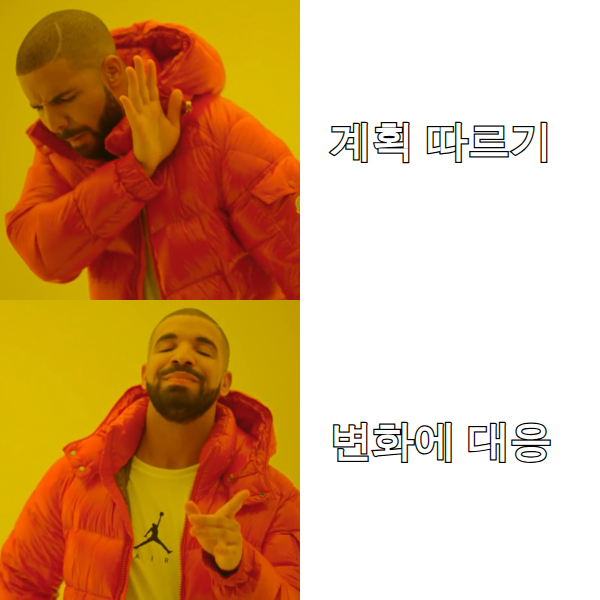
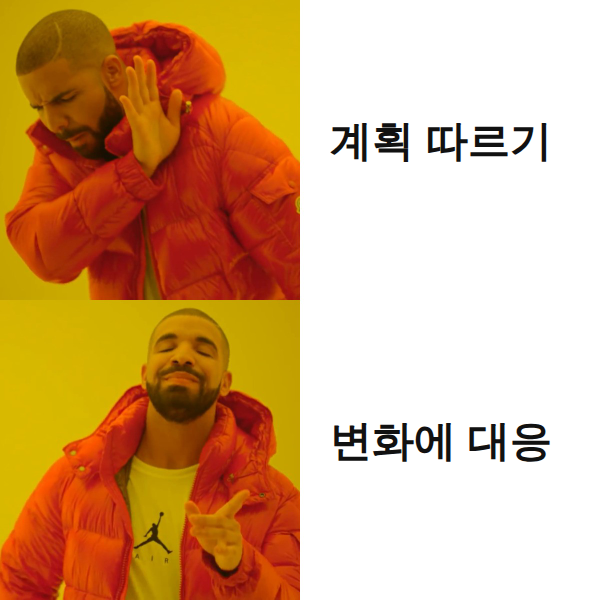
Design fixes: story box placement, table width, scroll hints, mermaid natural size, meme text

Changed region(s): [[0.54, 0.69, 0.93, 0.78], [0.54, 0.18, 0.93, 0.27]]

diff --git a/days/2026-10-04-D002.html b/days/2026-10-04-D002.html
@@ -40,14 +40,14 @@
 <div><b>구조 다이어그램</b>시스템이 <b>무엇으로 이루어졌나</b><br>시간 개념 없음 = 정적</div>
 <div><b>행위 다이어그램</b>시스템이 <b>어떻게 움직이나</b><br>시간에 따른 변화 = 동적</div>
 </div>
-<figure class="mermaid"><img src="../assets/2cdafdaa021c29d3.png" alt="도식" loading="lazy"></figure>
-<figure class="mermaid"><img src="../assets/67a7e6ee6b22c724.png" alt="도식" loading="lazy"></figure>
+<figure class="mermaid"><img src="../assets/2cdafdaa021c29d3.png" alt="도식" loading="lazy" style="width:400px"><figcaption class="hint">↔ 그림이 넓어요. 옆으로 밀어서 보세요</figcaption></figure>
+<figure class="mermaid"><img src="../assets/67a7e6ee6b22c724.png" alt="도식" loading="lazy" style="width:592px"><figcaption class="hint">↔ 그림이 넓어요. 옆으로 밀어서 보세요</figcaption></figure>
 <div class="memo"><b>클객컴배패복</b>은 구조, 나머지는 전부 행위. 구조 6개만 외우면 분류 문제는 끝나요.</div>
 <div class="trap">유스케이스 다이어그램은 “요구사항을 정리하는 그림”이라 정적으로 착각하기 쉽지만 <b>행위</b> 다이어그램이에요.</div>
 <p><small>※ UML 2.5 명세에는 구조 쪽에 <b>프로파일 다이어그램</b>도 있어요(7종). 시험 선지는 보통 위 6종 기준으로 판단하면 돼요.</small></p>
 
 <h2>3. 다이어그램 한눈 표</h2>
-<table>
+<p class="hint">↔ 표가 넓어요. 옆으로 밀어서 보세요</p><table>
 <tr><th>다이어그램</th><th>분류</th><th>무엇을 보여 주나</th><th>시험 키워드</th></tr>
 <tr><td><b>클래스</b></td><td>구조</td><td>클래스의 속성·연산과 클래스 간 관계</td><td>속성·오퍼레이션, 관계 기호</td></tr>
 <tr><td><b>객체</b></td><td>구조</td><td>특정 시점의 인스턴스와 링크</td><td>인스턴스, 스냅샷</td></tr>
@@ -65,11 +65,11 @@
 
 <h3>시퀀스 다이어그램 — 시간 순서</h3>
 <p>세로 점선이 <b>생명선</b>(객체가 살아 있는 시간), 위에서 아래로 시간이 흘러요. 가로 화살표가 메시지, 실선은 호출이고 점선은 응답이에요.</p>
-<figure class="mermaid"><img src="../assets/b2f836462e567259.png" alt="도식" loading="lazy"></figure>
+<figure class="mermaid"><img src="../assets/b2f836462e567259.png" alt="도식" loading="lazy" style="width:650px"><figcaption class="hint">↔ 그림이 넓어요. 옆으로 밀어서 보세요</figcaption></figure>
 <p>시퀀스 구성요소: <span class="tag">액터</span><span class="tag">객체</span><span class="tag">생명선</span><span class="tag">활성 박스(실행)</span><span class="tag">메시지</span><span class="tag">프레임(alt·loop)</span></p>
 
 <h3>상태 다이어그램 — 이벤트에 따른 상태 변화</h3>
-<figure class="mermaid"><img src="../assets/2208784193013201.png" alt="도식" loading="lazy"></figure>
+<figure class="mermaid"><img src="../assets/2208784193013201.png" alt="도식" loading="lazy" style="width:328px"></figure>
 <p>검은 점이 시작, 테두리 있는 점이 종료예요. 화살표 위의 글자가 상태를 바꾸는 <b>이벤트</b>예요.</p>
 
 <div class="vs">
@@ -121,7 +121,7 @@
 <polygon points="280,333 264,324 264,342" fill="#fff" stroke="#333" stroke-width="2"/>
 </svg><figcaption>클래스 관계 6종의 실제 표기. 마름모는 전체 쪽, 삼각형은 부모·인터페이스 쪽에 붙어요</figcaption></figure>
 
-<table>
+<p class="hint">↔ 표가 넓어요. 옆으로 밀어서 보세요</p><table>
 <tr><th>관계 (예)</th><th>선</th><th>끝 모양</th><th>의미</th></tr>
 <tr><td><b>연관</b> Association<br><small>학생 — 강의</small></td><td>실선</td><td>없음(방향 있으면 열린 화살표)</td><td>서로 알고 참조하는 관계</td></tr>
 <tr><td><b>집합</b> Aggregation<br><small>컴퓨터 ◇— 모니터</small></td><td>실선</td><td>빈 마름모 ◇ (전체 쪽)</td><td>전체–부분, 부분은 <b>독립적으로 존재</b> 가능</td></tr>
@@ -151,8 +151,8 @@ class OrderService {
 }</pre>
 
 <p>Mermaid 표기로도 같은 관계를 볼 수 있어요(이름은 영어로 표기).</p>
-<figure class="mermaid"><img src="../assets/5afab017b31c5cec.png" alt="도식" loading="lazy"></figure>
-<figure class="mermaid"><img src="../assets/a9b76e0ac97fe6c1.png" alt="도식" loading="lazy"></figure>
+<figure class="mermaid"><img src="../assets/5afab017b31c5cec.png" alt="도식" loading="lazy" style="width:349px"></figure>
+<figure class="mermaid"><img src="../assets/a9b76e0ac97fe6c1.png" alt="도식" loading="lazy" style="width:343px"></figure>
 
 <div class="memo"><b>빈 마름모 = 빈 관계</b>(헤어져도 각자 산다), <b>꽉 찬 마름모 = 운명 공동체</b>(같이 죽는다). <b>점선</b>은 약하거나(의존) 약속만 하는(실체화) 관계.</div>
 <div class="trap">마름모는 <b>부분 쪽이 아니라 전체 쪽</b>에 붙어요. 일반화 화살표는 <b>자식 → 부모</b>(삼각형이 부모에 닿음). 그림 문제에서 방향을 뒤집은 선지가 나와요.</div>

diff --git a/days/2026-10-13-D011.html b/days/2026-10-13-D011.html
@@ -20,8 +20,8 @@
 <div><b>8</b>아키텍처 패턴<small>레·클·파·M + 브·P·이·마</small></div>
 <div><b>4+1</b>뷰<small>논리·프로세스·구현·배포 + 유스케이스</small></div>
 
-<div class="box"><b>오늘 이야기의 흐름</b><br>아키텍처를 짜는 사람 입장에서 순서대로 따라가요. ① 큰 시스템을 <b>어떻게 나누고 감출지</b>(설계 원리) → ② 나눈 구조가 <b>좋은지 판단하는 기준</b>(품질 속성) → ③ 그 구조를 <b>어떤 순서로 정하는지</b>(설계 과정) → ④ 자주 쓰여서 이름이 붙은 <b>정답 구조</b>(아키텍처 패턴 8종) → ⑤ 완성된 아키텍처를 <b>보는 사람별로 나눠 그리는 법</b>(4+1 뷰). 앞 단계가 뒤 단계의 이유가 되니까, 막히면 이 흐름으로 돌아오세요.</div>
 </div>
+<div class="box"><b>오늘 이야기의 흐름</b>아키텍처를 짜는 사람 입장에서 순서대로 따라가요. ① 큰 시스템을 <b>어떻게 나누고 감출지</b>(설계 원리) → ② 나눈 구조가 <b>좋은지 판단하는 기준</b>(품질 속성) → ③ 그 구조를 <b>어떤 순서로 정하는지</b>(설계 과정) → ④ 자주 쓰여서 이름이 붙은 <b>정답 구조</b>(아키텍처 패턴 8종) → ⑤ 완성된 아키텍처를 <b>보는 사람별로 나눠 그리는 법</b>(4+1 뷰). 앞 단계가 뒤 단계의 이유가 되니까, 막히면 이 흐름으로 돌아오세요.</div>
 
 
 <h2>1. A3 지도 — 오늘 위치</h2>
@@ -136,7 +136,7 @@
 <text x="28" y="290" font-size="15" font-weight="700" fill="#222">개념적 무결성 · 정확성/완결성</text>
 <text x="28" y="316" font-size="14" fill="#333"><tspan font-weight="700">구축 가능성</tspan> (+ 변경성·시험성 등)</text>
 </svg><figcaption>굵은 글자는 확인한 두 자료가 같은 측면으로 분류한 항목, 괄호 안은 한 자료에만 있는 항목이에요.</figcaption></figure>
-<table>
+<p class="hint">↔ 표가 넓어요. 옆으로 밀어서 보세요</p><table>
 <tr><th>측면</th><th>대표 항목 (공통)</th><th>한 자료에만 있는 항목</th><th>판단 키워드</th></tr>
 <tr><td><b>시스템</b></td><td>성능, 보안, 가용성, 사용성, 변경 용이성</td><td>기능성, 확장성, 시험 용이성, 배치성, 안정성</td><td>운영 중 시스템이 어떻게 동작하나</td></tr>
 <tr><td><b>비즈니스</b></td><td>시장 적시성, 비용과 혜택, 예상 시스템 수명</td><td>목표 시장, 공개 일정, 기존 시스템과의 통합</td><td>언제 출시·얼마·얼마나 오래</td></tr>
@@ -147,7 +147,7 @@
 <div class="trap">① “시장 적시성·비용·예상 수명”을 <b>시스템 측면</b> 선지에 섞어 내요 — 돈·출시·수명은 비즈니스예요. ② ISO 9126 품질 특성(기능성·신뢰성·사용성·효율성·유지보수성·이식성)과는 <b>다른 분류</b>예요. “품질 속성 3측면”을 묻는데 9126 이름이 나오면 의심하세요(9126은 D 범위에서 따로 봐요).</div>
 
 <h2>4. 설계 과정 — 참고</h2>
-<figure class="mermaid"><img src="../assets/5a49d2181be4fce2.png" alt="도식" loading="lazy"></figure>
+<figure class="mermaid"><img src="../assets/5a49d2181be4fce2.png" alt="도식" loading="lazy" style="width:334px"></figure>
 <p>두 번째 단계의 시스템 타입은 네 가지로 소개돼요.</p>
 <div class="grid">
 <div><b>대화형</b>사용자 요청 → 처리 → 응답 (웹 서비스)</div>
@@ -262,12 +262,12 @@
 </ul>
 </div>
 <h3>MVC — 요청 하나가 흐르는 순서</h3>
-<figure class="mermaid"><img src="../assets/85dbbfe9e5d1ee6b.png" alt="도식" loading="lazy"></figure>
+<figure class="mermaid"><img src="../assets/85dbbfe9e5d1ee6b.png" alt="도식" loading="lazy" style="width:496px"><figcaption class="hint">↔ 그림이 넓어요. 옆으로 밀어서 보세요</figcaption></figure>
 <h3>브로커 vs 이벤트 버스 — 가운데 있는 것이 하는 일</h3>
 <p><b>브로커</b>: 요청을 받아 맞는 서버를 <b>찾아 연결</b>하고 응답을 돌려줘요(요청-응답, 위치 투명성).</p>
-<figure class="mermaid"><img src="../assets/cb8f3ebabd23369b.png" alt="도식" loading="lazy"></figure>
+<figure class="mermaid"><img src="../assets/cb8f3ebabd23369b.png" alt="도식" loading="lazy" style="width:408px"><figcaption class="hint">↔ 그림이 넓어요. 옆으로 밀어서 보세요</figcaption></figure>
 <p><b>이벤트 버스</b>: 소스는 발행만 하고 <b>누가 받는지 몰라요</b>. 구독자들이 각자 비동기로 받아요(느슨한 결합).</p>
-<figure class="mermaid"><img src="../assets/dea43867049ca8cb.png" alt="도식" loading="lazy"></figure>
+<figure class="mermaid"><img src="../assets/dea43867049ca8cb.png" alt="도식" loading="lazy" style="width:499px"><figcaption class="hint">↔ 그림이 넓어요. 옆으로 밀어서 보세요</figcaption></figure>
 
 
 <h2>6. 4+1 뷰 — 아키텍처를 보는 다섯 시선</h2>

diff --git a/index.html b/index.html
@@ -6,7 +6,7 @@
 <link rel="stylesheet" href="style.css"></head>
 <body><main>
 <nav class="top"><a href="index.html">목차</a> · <a href="wrong.html">오답 노트</a> · <a href="schedule.html">학습 일정</a></nav>
-<h1>정처기 필기 하루 공부</h1><div class='meta'>매일 아침 하루치 학습 페이지가 쌓입니다. 마지막 빌드 2026-10-13 16:12</div><div class="point">오늘(최신) 학습: <a href="days/2026-10-13-D011.html"><b>D011 · 소프트웨어 아키텍처 — 설계 원리·품질 속성·패턴 8종·4+1 뷰</b></a></div><h2>전체 목록</h2><ul class='list'><li><span class="d">2026-10-13 · A3</span><a href="days/2026-10-13-D011.html">D011 · 소프트웨어 아키텍처 — 설계 원리·품질 속성·패턴 8종·4+1 뷰</a></li><li><span class="d">2026-10-12 · A2·A3</span><a href="days/2026-10-12-D010.html">D010 · 감성공학 1·2·3류와 설계 모델링 — A2 마무리, A3 시작</a></li><li><span class="d">2026-10-11 · A1·A2</span><a href="days/2026-10-11-D009.html">D009 · 1~2주차 주간 종합 복습 — 요구사항·UML·애자일·분석모델·UI 설계</a></li><li><span class="d">2026-10-10 · A2</span><a href="days/2026-10-10-D008.html">D008 · 스토리보드와 UI 설계 도구 — 와이어프레임·목업·프로토타입 구별</a></li><li><span class="d">2026-10-09 · A2</span><a href="days/2026-10-09-D007.html">D007 · UI 표준·지침 — 요구사항과 구별, 설계 4원칙·UI 유형</a></li><li><span class="d">2026-10-08 · A1</span><a href="days/2026-10-08-D006.html">D006 · 요구사항 관리 도구 — 추적표(RTM)·변경 통제·기준선</a></li><li><span class="d">2026-10-07 · A1</span><a href="days/2026-10-07-D005.html">D005 · 분석자동화 도구 — CASE와 SADT·SREM·PSL/PSA·TAGS</a></li><li><span class="d">2026-10-06 · A1</span><a href="days/2026-10-06-D004.html">D004 · 모델링 기법 — DFD·자료 사전·럼바우</a></li><li><span class="d">2026-10-05 · A1</span><a href="days/2026-10-05-D003.html">D003 · 애자일(Agile)</a></li><li><span class="d">2026-10-04 · A1</span><a href="days/2026-10-04-D002.html">D002 · UML</a></li><li><span class="d">2026-10-03 · A1</span><a href="days/2026-10-03-D001.html">D001 · 요구분석기법</a></li></ul>
+<h1>정처기 필기 하루 공부</h1><div class='meta'>매일 아침 하루치 학습 페이지가 쌓입니다. 마지막 빌드 2026-10-13 16:15</div><div class="point">오늘(최신) 학습: <a href="days/2026-10-13-D011.html"><b>D011 · 소프트웨어 아키텍처 — 설계 원리·품질 속성·패턴 8종·4+1 뷰</b></a></div><h2>전체 목록</h2><ul class='list'><li><span class="d">2026-10-13 · A3</span><a href="days/2026-10-13-D011.html">D011 · 소프트웨어 아키텍처 — 설계 원리·품질 속성·패턴 8종·4+1 뷰</a></li><li><span class="d">2026-10-12 · A2·A3</span><a href="days/2026-10-12-D010.html">D010 · 감성공학 1·2·3류와 설계 모델링 — A2 마무리, A3 시작</a></li><li><span class="d">2026-10-11 · A1·A2</span><a href="days/2026-10-11-D009.html">D009 · 1~2주차 주간 종합 복습 — 요구사항·UML·애자일·분석모델·UI 설계</a></li><li><span class="d">2026-10-10 · A2</span><a href="days/2026-10-10-D008.html">D008 · 스토리보드와 UI 설계 도구 — 와이어프레임·목업·프로토타입 구별</a></li><li><span class="d">2026-10-09 · A2</span><a href="days/2026-10-09-D007.html">D007 · UI 표준·지침 — 요구사항과 구별, 설계 4원칙·UI 유형</a></li><li><span class="d">2026-10-08 · A1</span><a href="days/2026-10-08-D006.html">D006 · 요구사항 관리 도구 — 추적표(RTM)·변경 통제·기준선</a></li><li><span class="d">2026-10-07 · A1</span><a href="days/2026-10-07-D005.html">D005 · 분석자동화 도구 — CASE와 SADT·SREM·PSL/PSA·TAGS</a></li><li><span class="d">2026-10-06 · A1</span><a href="days/2026-10-06-D004.html">D004 · 모델링 기법 — DFD·자료 사전·럼바우</a></li><li><span class="d">2026-10-05 · A1</span><a href="days/2026-10-05-D003.html">D003 · 애자일(Agile)</a></li><li><span class="d">2026-10-04 · A1</span><a href="days/2026-10-04-D002.html">D002 · UML</a></li><li><span class="d">2026-10-03 · A1</span><a href="days/2026-10-03-D001.html">D001 · 요구분석기법</a></li></ul>
 
 <footer>2027년 정기 기사 1회 정보처리기사 필기 준비 · 공식 범위: Q-Net 2027~2029 출제기준</footer>
 </main></body></html>

diff --git a/days/2026-10-06-D004.html b/days/2026-10-06-D004.html
@@ -145,7 +145,7 @@
 
 <h2>4. 자료 사전 (DD, Data Dictionary)</h2>
 <p>DFD의 화살표·저장소에 붙은 <b>자료 이름을 정의</b>하는 사전이에요(“자료에 대한 자료” = 메타데이터). 개발자 눈으로 보면 정규식·BNF 비슷한 표기법이에요.</p>
-<table>
+<p class="hint">↔ 표가 넓어요. 옆으로 밀어서 보세요</p><table>
 <tr><th>기호</th><th>의미</th><th>영어</th><th>읽는 법</th></tr>
 <tr><td><code>=</code></td><td><b>정의</b></td><td>is composed of</td><td>~로 구성된다</td></tr>
 <tr><td><code>+</code></td><td><b>연결</b></td><td>and</td><td>~와 ~</td></tr>
@@ -176,14 +176,14 @@
 <h3>럼바우 OMT (Object Modeling Technique) — 가장 많이 출제</h3>
 <p>럼바우(Rumbaugh) 등이 1991년 정리한 방법으로, 시스템을 <b>세 가지 관점의 모델</b>로 나눠 차례로 만들어요. 이후 UML의 주요 뿌리가 됐어요.</p>
 <div class="flow"><div><b>① 객체 모델링</b>객체 다이어그램</div><div class="arrow">→</div><div><b>② 동적 모델링</b>상태 다이어그램</div><div class="arrow">→</div><div><b>③ 기능 모델링</b>DFD</div></div>
-<table>
+<p class="hint">↔ 표가 넓어요. 옆으로 밀어서 보세요</p><table>
 <tr><th>모델</th><th>다이어그램</th><th>무엇을</th><th>답하는 질문</th></tr>
 <tr><td><b>객체</b> 모델링<br><small>(정보 모델링)</small></td><td><b>객체 다이어그램</b></td><td>객체·클래스, 속성·연산, 객체 간 관계(연관·집약·일반화). 가장 먼저, 가장 중요</td><td>“무엇이 있나?”</td></tr>
 <tr><td><b>동적</b> 모델링</td><td><b>상태 다이어그램</b></td><td>이벤트에 따른 상태 변화, 시간 흐름에 따른 <b>제어 흐름</b></td><td>“언제 어떻게 바뀌나?”</td></tr>
 <tr><td><b>기능</b> 모델링</td><td><b>DFD</b></td><td>입력 자료가 처리되어 출력이 되는 <b>자료 흐름·변환</b></td><td>“무엇을 계산하나?”</td></tr>
 </table>
 <p>동적 모델의 상태 다이어그램은 실제로 이렇게 생겼어요(주문 객체의 상태 변화).</p>
-<figure class="mermaid"><img src="../assets/10a69c8cc4ecea79.png" alt="도식" loading="lazy"></figure>
+<figure class="mermaid"><img src="../assets/10a69c8cc4ecea79.png" alt="도식" loading="lazy" style="width:276px"></figure>
 <p>기능 모델은 앞의 3장에서 본 <b>DFD 그대로</b>예요. 즉 럼바우는 객체지향 기법이지만 기능 관점에서는 구조적 분석의 DFD를 빌려 써요. 그래서 “DFD = 구조적 분석 전용”이라고 단정하면 안 돼요.</p>
 <div class="memo"><b>객동기</b> — 순서는 <b>객</b>체 → <b>동</b>적 → <b>기</b>능. 짝은 <b>객-객체도, 동-상태도, 기-DFD</b>. “동적 = 동(動)하는 상태”, “기능 = 자료를 가공하는 DFD”.</div>
 <div class="trap">

diff --git a/days/2026-10-09-D007.html b/days/2026-10-09-D007.html
@@ -72,7 +72,7 @@
 <text x="200" y="278" font-size="14" font-weight="700" fill="#222" text-anchor="middle">화면 설계 · 스토리보드</text>
 <text x="388" y="150" font-size="14" fill="#444" text-anchor="end">범위 ↓</text>
 </svg><figcaption>위로 갈수록 넓고(전사·전체 시스템 공통) 오래 쓰는 규칙, 아래로 갈수록 이번 프로젝트에 한정된 요구예요. 요구사항은 위 두 층에 의거해 확인하고, 그 결과가 화면 설계·스토리보드로 이어져요.</figcaption></figure>
-<table>
+<p class="hint">↔ 표가 넓어요. 옆으로 밀어서 보세요</p><table>
 <tr><th>구분</th><th>UI 표준</th><th>UI 지침</th><th>UI 요구사항</th></tr>
 <tr><td><b>한 줄 정의</b></td><td>전체 시스템의 모든 UI에 <b>공통 적용</b>할 화면 규약</td><td>개발 과정에서 <b>꼭 지켜야 할</b> 공통 조건·가이드라인</td><td>이 시스템 사용자가 원하는 UI 기능·품질</td></tr>
 <tr><td><b>범위</b></td><td>전사·전체 시스템</td><td>전사·전체 시스템(개발 시 제약)</td><td>이 프로젝트</td></tr>
@@ -85,7 +85,7 @@
 <div class="trap">표준과 지침의 정의를 <b>서로 바꿔 놓은 선지</b>가 단골이에요. “화면 구성·이동 규약”이 지침 설명에 붙어 있으면 ✕.</div>
 
 <h2>3. UI 설계 4원칙 — 직유학유</h2>
-<table>
+<p class="hint">↔ 표가 넓어요. 옆으로 밀어서 보세요</p><table>
 <tr><th>원칙</th><th>뜻</th><th>현업 예</th><th>함정</th></tr>
 <tr><td><b>직관성</b></td><td>누구나 <b>쉽게 이해</b>하고 바로 쓸 수 있게</td><td>휴지통 아이콘 = 삭제, 설명 없이 알아봄</td><td>↔ 학습성</td></tr>
 <tr><td><b>유효성</b></td><td>사용자의 <b>목적</b>을 정확하고 완전하게 <b>달성</b>하게</td><td>결제 화면에서 결제가 끝까지 제대로 됨</td><td>빠르기 ✕<br><b>목적 달성</b></td></tr>
@@ -138,7 +138,7 @@
 <text x="343" y="192">입출력</text>
 </g>
 </svg><figcaption>왼쪽에서 오른쪽으로 갈수록 사람이 기계 문법을 배우는 대신, 기계가 사람의 자연스러운 행동을 받아들여요. OUI 그림은 몸에 차는 웨어러블(심박 표시)을 예로 든 것이에요.</figcaption></figure>
-<table>
+<p class="hint">↔ 표가 넓어요. 옆으로 밀어서 보세요</p><table>
 <tr><th>유형</th><th>풀이</th><th>조작 방식</th><th>예</th></tr>
 <tr><td><b>CLI</b></td><td>Command Line Interface</td><td>키보드로 <b>텍스트 명령어</b> 입력</td><td>터미널, DOS</td></tr>
 <tr><td><b>GUI</b></td><td>Graphical User Interface</td><td><b>아이콘·창·메뉴</b>를 마우스로</td><td>Windows, macOS 데스크톱</td></tr>

diff --git a/days/2026-10-11-D009.html b/days/2026-10-11-D009.html
@@ -123,7 +123,7 @@
 <polygon points="280,263 264,254 264,272" fill="#fff" stroke="#333" stroke-width="2"/>
 <polygon points="280,333 264,324 264,342" fill="#fff" stroke="#333" stroke-width="2"/>
 </svg><figcaption>클래스 관계 6종의 실제 표기. 마름모는 전체 쪽, 삼각형은 부모·인터페이스 쪽에 붙어요</figcaption></figure>
-<table>
+<p class="hint">↔ 표가 넓어요. 옆으로 밀어서 보세요</p><table>
 <tr><th>관계</th><th>선</th><th>끝 모양</th><th>한 줄</th></tr>
 <tr><td><b>연관</b></td><td>실선</td><td>없음</td><td>서로 참조</td></tr>
 <tr><td><b>집합</b></td><td>실선</td><td>빈 마름모 (전체 쪽)</td><td>부분이 독립적으로 존재</td></tr>
@@ -182,7 +182,7 @@
 </table>
 <div class="memo"><b>3·3·5</b> 역할·산출물·이벤트. <b>리뷰 = 결과물</b>을 보고, <b>회고 = 팀이 일한 방식</b>을 돌아봐요.</div>
 <div class="lol">스크럼 <b>3·3·5</b> 폼 미쳤다. 일일 스크럼은 <b>15분</b> 국룰 — 30분 넘어가면 그건 그냥 회의. 리뷰는 “뭘 만들었나”, 회고는 “우리 일하는 방식 이게 맞나?”</div>
-<figure class="mermaid"><img src="../assets/39b1522a53b98658.png" alt="도식" loading="lazy"></figure>
+<figure class="mermaid"><img src="../assets/39b1522a53b98658.png" alt="도식" loading="lazy" style="width:395px"><figcaption class="hint">↔ 그림이 넓어요. 옆으로 밀어서 보세요</figcaption></figure>
 <div class="grid">
 <div><b>짝 프로그래밍</b>둘이 한 화면</div>
 <div><b>TDD</b>테스트 먼저</div>
@@ -306,7 +306,7 @@
 <rect x="10" y="286" width="380" height="44" rx="10" fill="#ffffff" stroke="#2a5db0" stroke-width="2"/>
 <text x="200" y="313" font-size="14" fill="#222" text-anchor="middle"><tspan font-weight="700" fill="#2a5db0">유스케이스</tspan> · 사용자 목표와 기능 요구(화면 그림 아님)</text>
 </svg><figcaption>와이어프레임 → 목업은 “보기”가 실물에 가까워지는 것, 목업 → 프로토타입은 “동작”이 생기는 것. 목업과 프로토타입은 겉모습이 같을 수 있어요.</figcaption></figure>
-<table>
+<p class="hint">↔ 표가 넓어요. 옆으로 밀어서 보세요</p><table>
 <tr><th>도구</th><th>한 단어</th><th>정적/동적</th><th>선지 키워드</th></tr>
 <tr><td><b>와이어프레임</b></td><td>뼈대</td><td>정적</td><td>기획 초기, 선·박스, 레이아웃</td></tr>
 <tr><td><b>목업</b></td><td>시안</td><td>정적</td><td>실물과 유사, 구현 안 됨</td></tr>

diff --git a/style.css b/style.css
@@ -13,7 +13,9 @@ h3{font-size:1.05em;margin:1.4em 0 .4em}
 .box{background:var(--card);border:1px solid var(--line);border-radius:12px;padding:14px 16px;margin:1em 0}
 .point{background:var(--hl);border-radius:10px;padding:12px 14px;margin:1em 0}
 table{border-collapse:collapse;width:100%;margin:1em 0;font-size:15px;display:block;overflow-x:auto}
-th,td{border:1px solid var(--line);padding:7px 9px;text-align:left;vertical-align:top}
+th,td{border:1px solid var(--line);padding:7px 9px;text-align:left;vertical-align:top;min-width:7.5em}
+th:first-child,td:first-child{min-width:5.5em}
+.box b:first-child{display:block;margin-bottom:4px}
 th{background:var(--code)}
 code{background:var(--code);padding:1px 5px;border-radius:5px;font-size:.92em}
 pre{background:var(--code);padding:12px;border-radius:10px;overflow-x:auto;font-size:14px;line-height:1.5}
@@ -42,6 +44,8 @@ footer{color:var(--muted);font-size:13px;margin-top:3em}
 .memo::before{content:"암기 ";font-weight:700;color:#e0a100}
 .trap{border-left:5px solid #d23f3f;background:var(--card);padding:10px 14px;border-radius:6px;margin:1em 0}
 .trap::before{content:"함정 ";font-weight:700;color:#d23f3f}
+.trap ul,.memo ul,.lol ul,.point ul{margin:.4em 0 0;padding-left:1.2em}
+.trap li,.point li{margin:.25em 0}
 .tag{display:inline-block;font-size:12px;padding:1px 8px;border-radius:99px;background:var(--code);margin-right:4px}
 figure{margin:1.2em 0;text-align:center}figcaption{font-size:13px;color:var(--muted)}
 .glance{display:grid;grid-template-columns:repeat(4,1fr);gap:8px;margin:1.2em 0}
@@ -61,4 +65,6 @@ figure{margin:1.2em 0;text-align:center}figcaption{font-size:13px;color:var(--mu
 .answer-bar{position:sticky;bottom:10px;background:var(--card);border:2px solid var(--accent);border-radius:12px;padding:10px 12px;margin:1em 0;display:flex;gap:8px;align-items:center;flex-wrap:wrap}
 .answer-bar code{flex:1 1 200px;font-size:15px}
 .answer-bar button{font:inherit;font-size:15px;padding:8px 14px;border:0;border-radius:8px;background:var(--accent);color:#fff;cursor:pointer}
-.mermaid img{max-width:100%;height:auto;display:block;margin:0 auto}
+.mermaid img{max-width:none;height:auto;display:block;margin:0 auto}
+.mermaid{overflow-x:auto}
+.hint{font-size:12px;color:var(--muted);margin:.2em 0;text-align:left}

diff --git a/days/2026-10-12-D010.html b/days/2026-10-12-D010.html
@@ -99,7 +99,7 @@
 <text x="346" y="290" font-size="14" font-weight="700" fill="#333" text-anchor="middle">객</text>
 <text x="346" y="308" font-size="14" font-weight="700" fill="#333" text-anchor="middle">관</text>
 </svg><figcaption>1류는 말(형용사), 2류는 마음(개인·문화·심리), 3류는 몸(센서 측정·생리). 아래로 갈수록 객관적인 측정에 가까워져요.</figcaption></figure>
-<table>
+<p class="hint">↔ 표가 넓어요. 옆으로 밀어서 보세요</p><table>
 <tr><th>분류</th><th>감성을 잡는 방법</th><th>강조 특성</th><th>시험 키워드</th></tr>
 <tr><td><b>1류</b></td><td>감성 어휘(형용사)로 제품 이미지를 조사해 디자인 요소와 연결 (의미 미분법 등)</td><td>감성 이미지</td><td>형용사 · 감성 어휘 · 이미지</td></tr>
 <tr><td><b>2류</b></td><td>개인의 생활방식·특성으로 이미지를 구체화, 문화적 감성 일부 반영</td><td><b>심리적</b></td><td>개인 · 문화 · 심리</td></tr>

diff --git a/wrong.html b/wrong.html
@@ -7,7 +7,7 @@
 <body><main>
 <nav class="top"><a href="index.html">목차</a> · <a href="wrong.html">오답 노트</a> · <a href="schedule.html">학습 일정</a></nav>
 <h1>오답 노트</h1><p>틀린 문제와 다시 볼 날짜예요. 채점할 때마다 갱신됩니다.</p>
-<table>
+<p class="hint">↔ 표가 넓어요. 옆으로 밀어서 보세요</p><table>
 <tr><th>문항</th><th>문제 요지</th><th>내 답 → 정답</th><th>다시 볼 날</th><th>상태</th></tr>
 <tr><td><a href="days/2026-10-03-D001.html">D001-2</a></td><td>상충하는 이해관계자 요구를 함께 논의·합의하는 기법</td><td>② 정적 분석 → ① 워크숍</td><td>10/04 ✅ · 10/10 예정→10/12 ✅ · 10/24</td><td>D+7 재확인 통과</td></tr>
 <tr><td><a href="days/2026-10-06-D004.html">D004-1</a></td><td>럼바우 OMT 기능 모델링에 쓰는 도구</td><td>③ 객체 다이어그램 → ① DFD</td><td>10/07 ❌ · 10/08 ✅ · 10/14 · 10/28</td><td>D+1 재확인 통과</td></tr>

diff --git a/days/2026-10-08-D006.html b/days/2026-10-08-D006.html
@@ -86,7 +86,7 @@
 
 <h2>4. 요구사항 추적표(RTM)와 양방향 추적</h2>
 <p><b>RTM</b>(Requirements Traceability Matrix)은 요구사항 하나하나가 어떤 설계·모듈·테스트로 이어지는지 한 줄로 이은 표예요. 지금 식으로 말하면 “이슈 ↔ 설계 문서 ↔ PR ↔ 테스트 케이스” 링크를 한눈에 펼친 표죠. 아래는 예시예요. 빈 칸과 맨 아랫줄을 보세요.</p>
-<table>
+<p class="hint">↔ 표가 넓어요. 옆으로 밀어서 보세요</p><table>
 <tr><th>요구 ID</th><th>요구 내용</th><th>설계</th><th>모듈</th><th>테스트</th></tr>
 <tr><td>REQ-01</td><td>회원 로그인</td><td>SD-03</td><td>AuthService</td><td>TC-11</td></tr>
 <tr><td>REQ-02</td><td>비밀번호 재설정</td><td>SD-04</td><td style="background:#ffe0e0;color:#b00020"><b>(없음)</b></td><td style="background:#ffe0e0;color:#b00020"><b>(없음)</b></td></tr>
